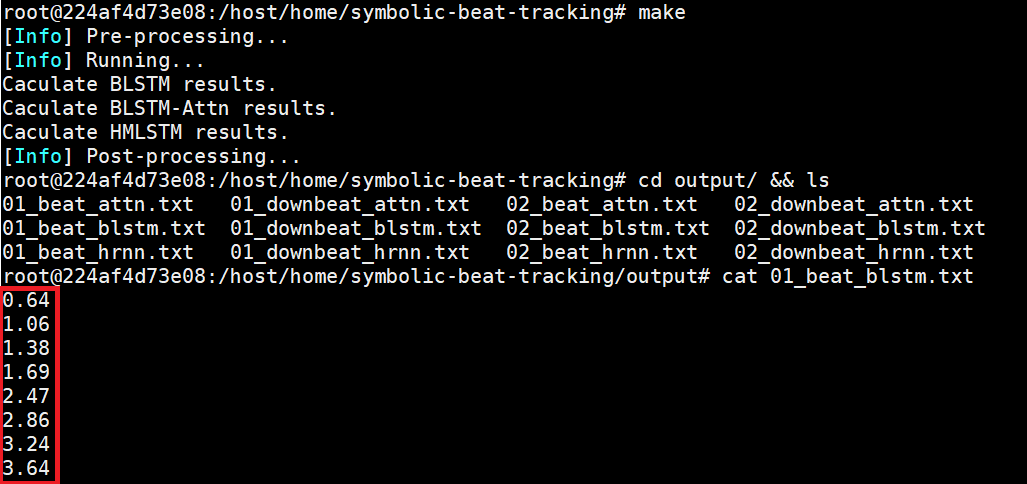
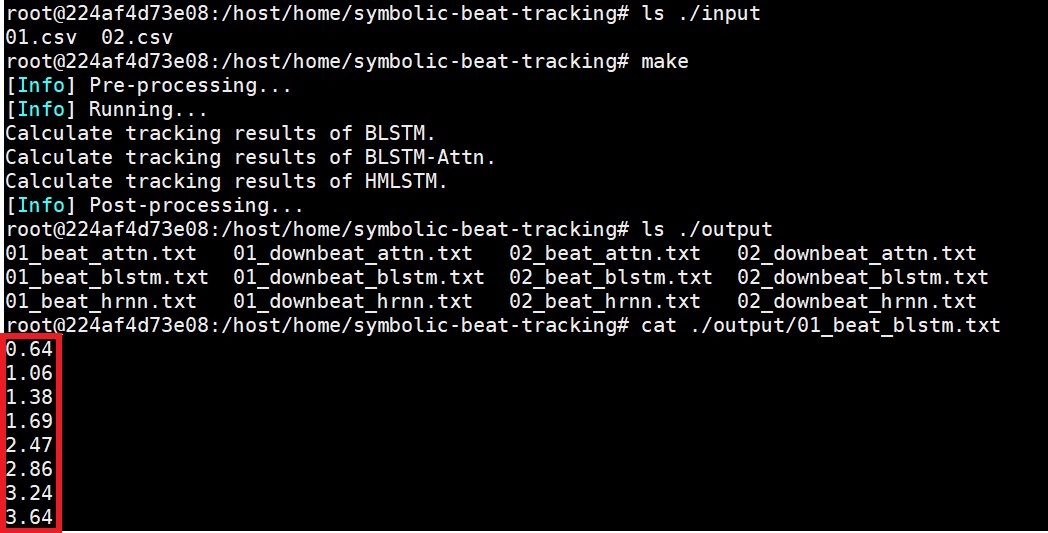
test

Changed region(s): [[0.0, 0.0, 1.0, 1.0]]

diff --git a/test/run-attn.py b/test/run-attn.py
@@ -110,7 +110,7 @@ class Model(nn.Module):
 
 def main():
 
-    print('Caculate BLSTM-Attn results.')
+    print('Calculate tracking results of BLSTM-Attn.')
 
     file_list = np.sort(glob.glob('./input/npz/*.npz', recursive=True)).tolist() 
     model = Model(input_dim, hidden_dim, beat_dim, downbeat_dim)

diff --git a/test/run-blstm.py b/test/run-blstm.py
@@ -61,7 +61,7 @@ class Model(nn.Module):
 
 def main():
 
-    print('Caculate BLSTM results.')
+    print('Calculate tracking results of BLSTM.')
     
     file_list = np.sort(glob.glob('./input/npz/*.npz', recursive=True)).tolist() 
     model = Model(input_dim, hidden_dim, beat_dim, downbeat_dim)

diff --git a/test/run-hrnn.py b/test/run-hrnn.py
@@ -183,7 +183,7 @@ class HM_Net(Module):
 
 def main():
 
-    print('Caculate HMLSTM results.')
+    print('Calculate tracking results of HMLSTM.')
     
     file_list = np.sort(glob.glob('./input/npz/*.npz', recursive=True)).tolist() 
     dict_size, embed_size = seq_len, input_size

diff --git a/README.md b/README.md
@@ -53,7 +53,7 @@ In this project, we construct a symbolic beat tracking system that performs join
 
 ## Example
 
-Here is a short example. There are two symbolic music data files `01.csv` and `02.csv` in the input folder. You can check their beat/downbeat tracking results with our networks as follows. 
+Here is a short example. There are two symbolic music data files `01.csv` and `02.csv` in the input folder. You can check their beat/downbeat tracking results as follows. 
 
 ![](https://github.com/chuang76/symbolic-beat-tracking/blob/master/figure/proc.png?raw=true)
 
